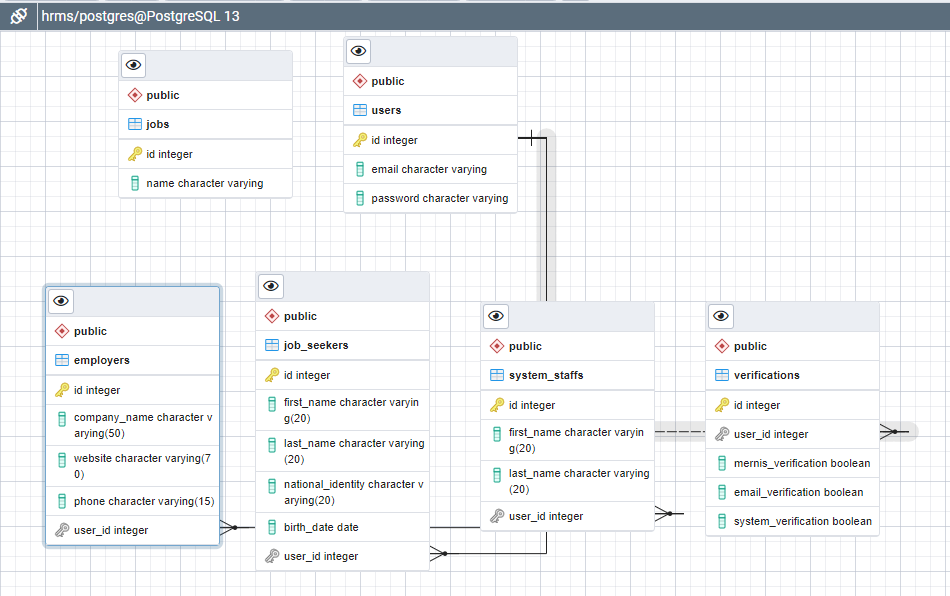
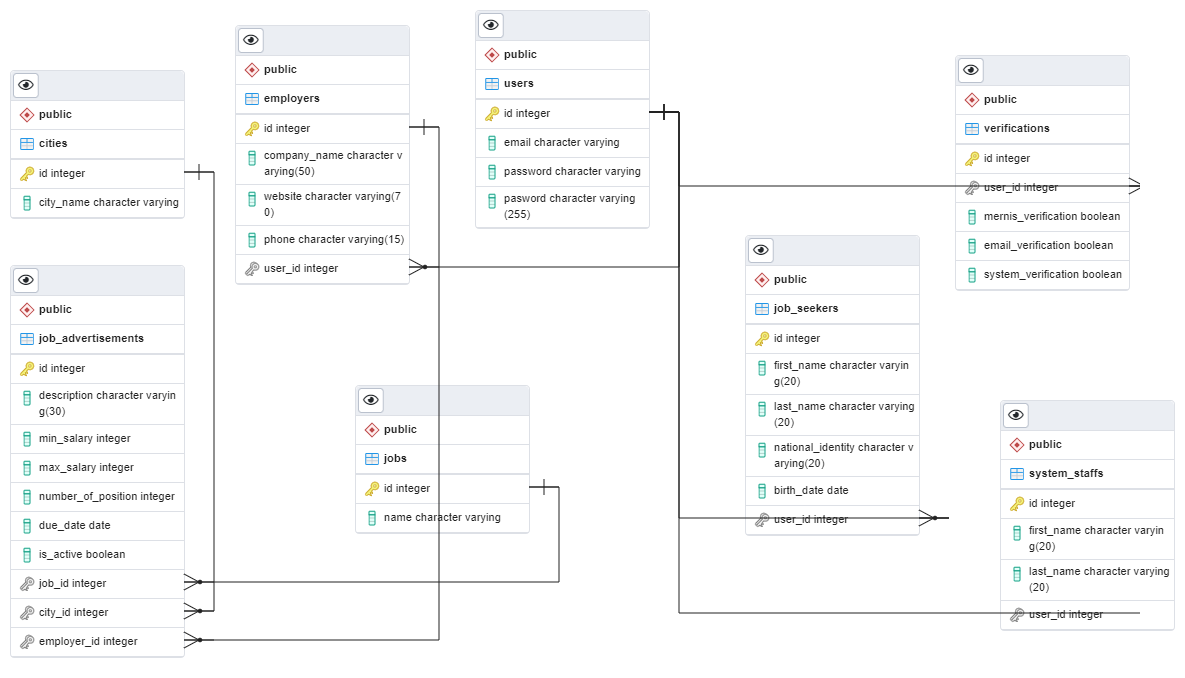
erd updated

Changed region(s): [[0.0, 0.0, 1.0, 0.9664], [0.9158, 0.5738, 1.0, 0.604]]

diff --git a/src/main/java/kodlamaio/hrms/entities/concretes/JobAdvertisement.java b/src/main/java/kodlamaio/hrms/entities/concretes/JobAdvertisement.java
@@ -1,0 +1,52 @@
+package kodlamaio.hrms.entities.concretes;
+
+import java.util.Date;
+
+import javax.persistence.Column;
+import javax.persistence.Entity;
+import javax.persistence.GeneratedValue;
+import javax.persistence.GenerationType;
+import javax.persistence.Id;
+import javax.persistence.JoinColumn;
+import javax.persistence.ManyToOne;
+import javax.persistence.Table;
+
+import lombok.AllArgsConstructor;
+import lombok.Data;
+import lombok.NoArgsConstructor;
+
+@Data
+@Entity
+@NoArgsConstructor
+@AllArgsConstructor
+@Table(name="job_advertisement")
+public class JobAdvertisement {
+   @Id
+   @GeneratedValue(strategy=GenerationType.IDENTITY)
+   @Column(name="id")
+   private int Id; 
+   @Column(name="description")
+   private String description;
+   @Column(name="min_salary")
+   private int min_salary;
+   @Column(name="max-salary")
+   private int max_salary;
+   @Column(name="number_of_position")
+   private int number_of_position;
+   @Column(name="is_active")
+   private boolean is_active;
+   @Column(name="due_date")
+   private Date due_date;
+   
+   @ManyToOne()
+   @JoinColumn(name="job_id")
+   Job job;
+   
+   //@ManyToOne()
+   //@JoinColumn(name="city_id")
+   //City city;
+   
+   @ManyToOne()
+   @JoinColumn(name="employer_id")
+   Employer employer;
+}

diff --git a/src/main/java/kodlamaio/hrms/entities/concretes/City.java b/src/main/java/kodlamaio/hrms/entities/concretes/City.java
@@ -1,0 +1,22 @@
+package kodlamaio.hrms.entities.concretes;
+
+import javax.persistence.Column;
+import javax.persistence.Entity;
+import javax.persistence.Table;
+
+import lombok.AllArgsConstructor;
+import lombok.Data;
+import lombok.NoArgsConstructor;
+
+@Data
+@Entity
+@Table(name="cities")
+@AllArgsConstructor
+@NoArgsConstructor
+public class City {
+    @Column(name="city_id")
+	private int id;
+    @Column(name="city_name")
+	private String city_name;
+	
+}
